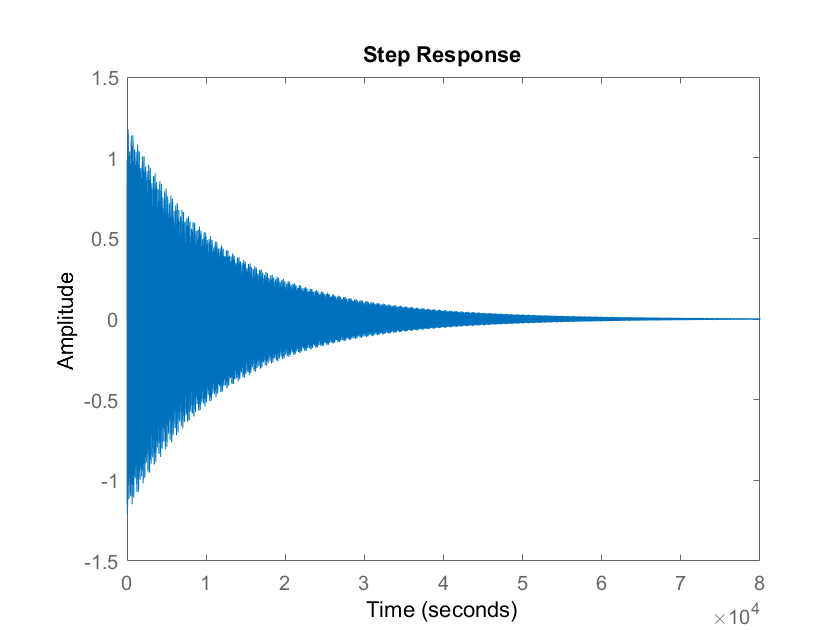
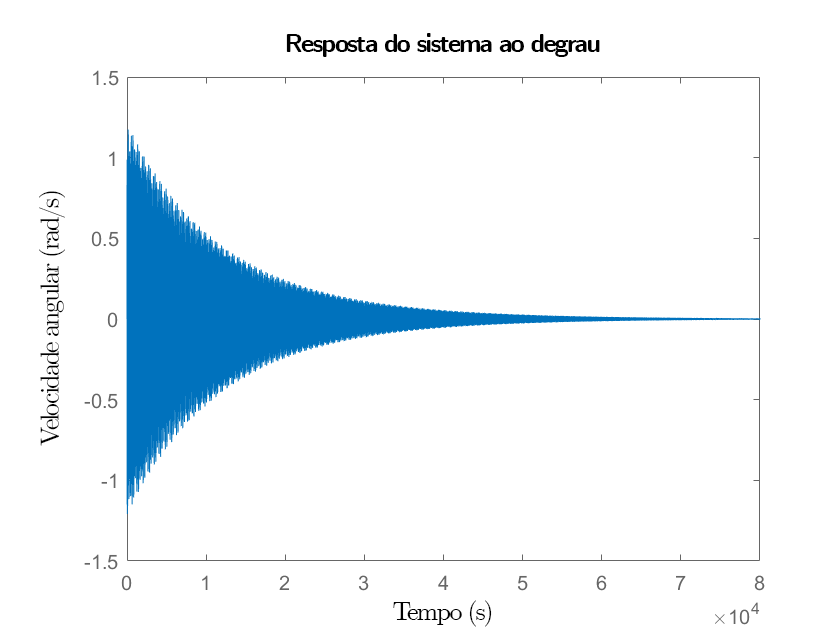
ajustes finais (espero)

diff --git a/enviados/Compensadores.m b/enviados/Compensadores.m
@@ -62,3 +62,19 @@ C_Bode = tf([37.43 91.2395],[1 7.047e-08]);
 FTMF_Bode = feedback(C_Bode*FT_T2_theta2dot,1);
 figure
 step(FTMF_Bode)
+title('Resposta do sistema compensado ao degrau unitário')
+xlabel('Tempo')
+ylabel('Velocidade angular (rad/s)')
+
+%%% Avanço
+phi = 80; % graus
+alpha = 130.646;
+wn = 0.431; % rad/s
+z = wn/sqrt(alpha);
+p = z*alpha;
+C_av = alpha*tf([1 z],[1 p]);
+figure
+margin(C_av*FT_T2_theta2dot)
+hold
+bode(FT_T2_theta2dot)
+legend('Compensado','N\~{a}o compensado')
